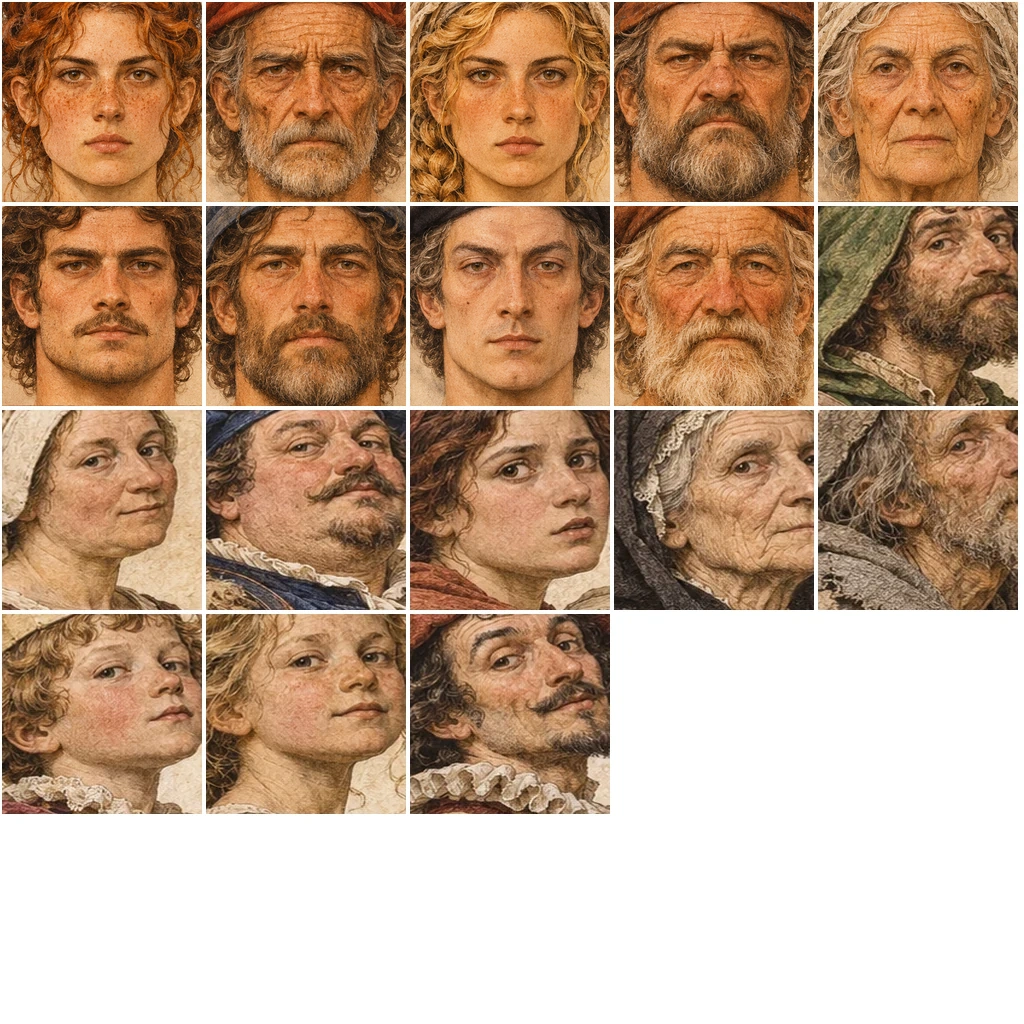
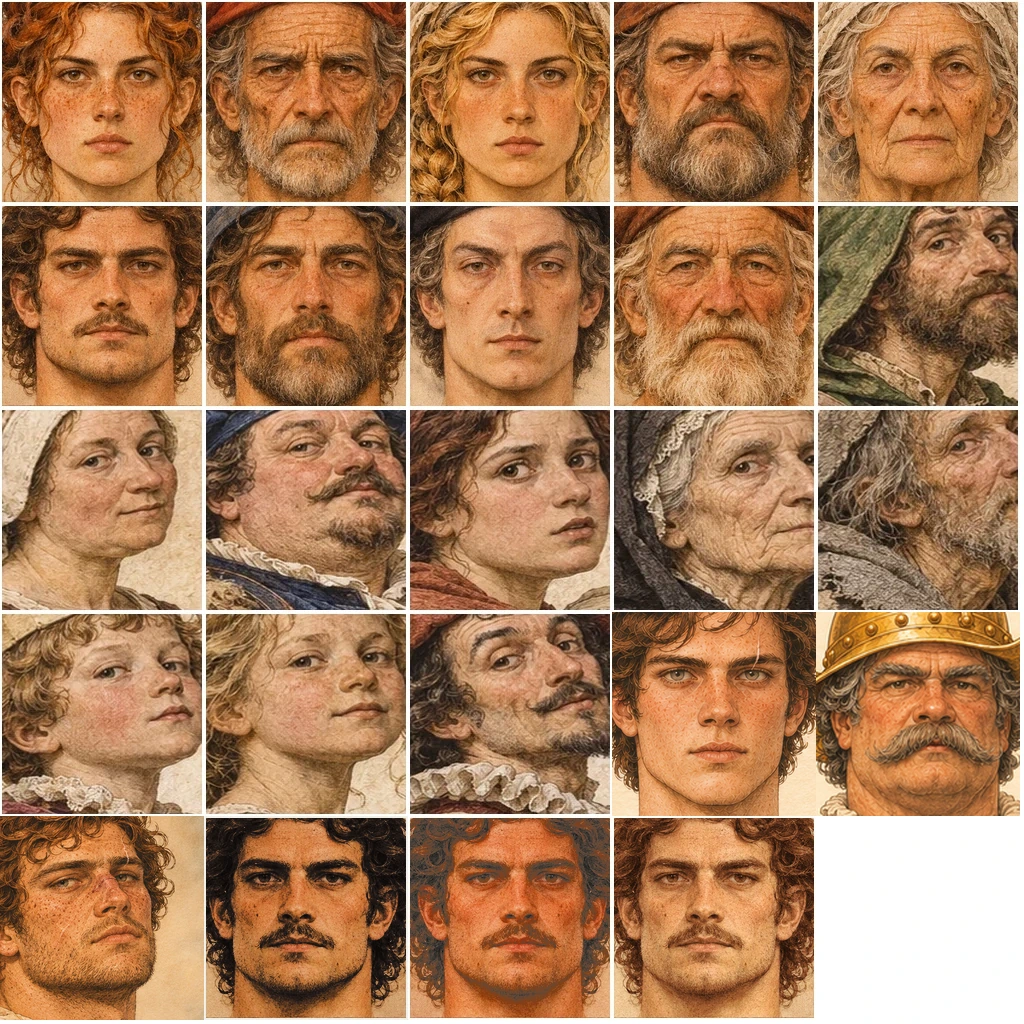
Foule et gardes variés, Bastien reconnaissable à la porte du palais
- Figurants : costume, coiffe, teint, cheveux, barbe, taille et corpulence tirés au sort (toujours les mêmes d'une partie à l'autre).
- Gardes : visages, teints et carrures différents ; Bastien a son propre visage et ses portraits de dialogue, le sergent aussi.
- Joris, le frère de Bastien, est dans la file du tribut.
- Après le tribut, le jeune garde suit Aliénor du regard et lui fait signe ; l'objectif et le bouton le désignent ; le percepteur ne capte plus toute la zone.
- File du tribut : la main serre la sangle au lieu d'un bras tendu ; les coiffes des figurantes laissent voir le visage.
- Outil : outils/atlas_visages.py complète l'atlas des visages.

Claude-Session: https://claude.ai/code/session_014bkfpPWQpatWsCS2ZrzQjJ

Changed region(s): [[0.0, 0.5938, 1.0, 1.0]]

diff --git a/index.html b/index.html
@@ -212,7 +212,7 @@ const OBJ = [
   "Racontez à maître Anselme ce qui vient de se passer. Il est devant l’imprimerie, à l’ouest de la place.",
   ""
 ];
-function objText(){ if(S.act===2) return act2Obj(); if(S.stage<6) return OBJ[S.stage]; if(!S.f.includes("F4")) return "Acte I terminé. Un feuillet se cache encore le long du quai. Maître Anselme vous attend pour la suite."; if(!S.f.includes("F5")) return "Acte I terminé. Un feuillet se cache au fond de la cour des gardes. Maître Anselme vous attend pour la suite."; return "Acte I terminé. Quand vous êtes prête, parlez à maître Anselme pour attendre le soir."; }
+function objText(){ if(S.act===2) return act2Obj(); if(S.stage===2&&typeof bastienWaits==="function"&&bastienWaits()) return OBJ[2]+" Le jeune garde, à gauche de la porte, voudrait vous parler (facultatif)."; if(S.stage<6) return OBJ[S.stage]; if(!S.f.includes("F4")) return "Acte I terminé. Un feuillet se cache encore le long du quai. Maître Anselme vous attend pour la suite."; if(!S.f.includes("F5")) return "Acte I terminé. Un feuillet se cache au fond de la cour des gardes. Maître Anselme vous attend pour la suite."; return "Acte I terminé. Quand vous êtes prête, parlez à maître Anselme pour attendre le soir."; }
 
 /* ================= État ================= */
 const KEY="sarlande-acte1-v1";
@@ -1247,10 +1247,10 @@ const SKIN=0xecc9a4, STEEL=0x97a0b4;
 const OUTLINE=new THREE.ShaderMaterial({uniforms:{w:{value:0.006}},vertexShader:"uniform float w; void main(){ vec3 p=position+normalize(normal)*w; gl_Position=projectionMatrix*modelViewMatrix*vec4(p,1.0); }",fragmentShader:"void main(){ gl_FragColor=vec4(0.10,0.09,0.12,1.0); }",side:THREE.BackSide});
 G.sleeveF=new THREE.CylinderGeometry(0.05,0.09,0.56,8);
 const HUMANS=[];
-const faceNames=["alienor","anselme","maelle","garin","ysabeau","garde","thibaut","percepteur","mathurin","bertin","jeanne","hugues","perrine","margot","mendiant","garcon","fille","comedien"];
+const faceNames=["alienor","anselme","maelle","garin","ysabeau","garde","thibaut","percepteur","mathurin","bertin","jeanne","hugues","perrine","margot","mendiant","garcon","fille","comedien","bastien","brisset","joris","garde2","garde3","garde4"];
 const skullLibrary=new Map();
 function portraitSkull(o){
-  const broad=["garin","garde","mathurin"].includes(o.likeness)?1.08:1;
+  const broad=["garin","garde","mathurin","brisset","garde2","garde3","garde4"].includes(o.likeness)?1.08:1;
   if(skullLibrary.has(broad))return skullLibrary.get(broad);
   const p=[],ix=[];
   for(let j=0;j<=22;j++){
@@ -1345,7 +1345,7 @@ function tailoring(){
   return {panel,detail,mesh};
 }
 function uniformTile(o){
-  const t={alienor:0,maelle:2,ysabeau:6,garde:3,anselme:8,garin:1,thibaut:7,percepteur:5,mathurin:6,bertin:6};
+  const t={alienor:0,maelle:2,ysabeau:6,garde:3,bastien:3,brisset:3,garde2:3,garde3:3,garde4:3,anselme:8,garin:1,thibaut:7,percepteur:5,mathurin:6,bertin:6};
   return t[o.likeness]===undefined?-1:t[o.likeness];
 }
 function tailoredBody(o){
@@ -1471,13 +1471,13 @@ function dressFigure(mesh,o){
 }
 function human(o){ const g=new THREE.Group(), body=new THREE.Group(); g.add(body); const b=new Builder(); b.jit=0.02; const hb=new Builder(); hb.jit=0.02; const U={body,legs:[],arms:[],ph:rnd()*6,amp:0,hold:!!o.hold};
   const H=(geo,col,x,y,z,sx,sy,sz,ry,rx,rz)=>hb.put(geo,col,x,y-1.5,z,sx,sy,sz,ry,rx,rz);
-  b.put(G.torso,o.top,0,1.2,0,0.215,0.52,0.155); b.put(G.s,o.top,0,1.44,0,0.26,0.085,0.15); b.put(G.c8,SKIN,0,1.5,0,0.05,0.1,0.05);
+  b.put(G.torso,o.top,0,1.2,0,0.215,0.52,0.155); b.put(G.s,o.top,0,1.44,0,0.26,0.085,0.15); b.put(G.c8,o.skin||SKIN,0,1.5,0,0.05,0.1,0.05);
   if(o.skirt){ b.put(G.skirt,o.bottom||o.top,0,0.52,0,1,1,1); if(o.apron) b.put(G.box,o.apron,0,0.6,0.295,0.3,0.74,0.025,0,-0.24,0); b.put(G.c8,0x4b3829,0,1.0,0,0.19,0.05,0.14); }
   else { b.put(G.flare,o.top,0,0.86,0,1,1,0.8); b.put(G.c8,0x4b3829,0,1.0,0,0.19,0.05,0.14); if(o.apron) b.put(G.box,o.apron,0,0.95,0.15,0.3,0.7,0.03,0,-0.06,0); }
   if(o.pouch) b.put(G.box,o.pouch,0.15,0.93,0.1,0.1,0.13,0.06);
   if(o.cape){ b.put(G.hcyl,o.cape,0,0.98,-0.01,0.28,1.04,0.21,Math.PI/2); b.put(G.s,o.cape,0,1.43,-0.02,0.27,0.08,0.17); b.put(G.c8,ORANGE,0,1.42,0.15,0.03,0.02,0.03,0,Math.PI/2); }
   /* le visage */
-  H(o.likeness?portraitSkull(o):G.s,SKIN,0,1.625,0.005,0.112,0.144,0.115); const cheekVertices=hb.p.length/3; H(G.box,SKIN,0,1.605,0.115,0.022,0.036,0.03);
+  H(o.likeness?portraitSkull(o):G.s,o.skin||SKIN,0,1.625,0.005,0.112,0.144,0.115); const cheekVertices=hb.p.length/3; H(G.box,o.skin||SKIN,0,1.605,0.115,0.022,0.036,0.03);
   const h=o.hat, hc=o.hatc||0x4b3829, hair=o.hair||0x5a4030, brow=(h==="bun"||h==="braid"||!h)?hair:0x4a3626;
   for(const sx of [-1,1]){ H(G.s,0x1d2440,sx*0.037,1.632,0.097,0.017,0.012,0.009); H(G.box,brow,sx*0.04,1.663,0.1,0.042,0.009,0.012,0,0,-sx*0.12); }
   H(G.box,0x8a3a2a,0,1.572,0.106,0.036,0.008,0.01);
@@ -1488,7 +1488,7 @@ function human(o){ const g=new THREE.Group(), body=new THREE.Group(); g.add(body
   if(o.beard) H(G.s,o.beard,0,1.535,0.019,0.086,0.058,0.069);
   if(h==="bun"){ H(G.s,hair,0,1.66,-0.03,0.115,0.115,0.12); H(G.s,hair,0,1.6,-0.14,0.058); b.put(G.box,0xf2ece0,0,1.455,0.02,0.3,0.05,0.2); }
   if(h==="braid"){ H(G.s,hair,0,1.66,-0.03,0.115,0.115,0.12); H(G.c8,hair,0,1.36,-0.14,0.035,0.42,0.035); }
-  if(h==="coif"){ H(G.s,0xf2ece0,0,1.66,-0.025,0.125,0.125,0.135); H(G.box,0xf2ece0,0,1.5,-0.1,0.2,0.2,0.04); b.put(G.s,o.shawl||0x8a8f7e,0,1.42,-0.02,0.29,0.1,0.19); }
+  if(h==="coif"){ if(o.likeness) H(G.s,0xf2ece0,0,1.66,-0.025,0.125,0.125,0.135); else H(G.s,0xf2ece0,0,1.672,-0.058,0.123,0.122,0.112); H(G.box,0xf2ece0,0,1.5,-0.1,0.2,0.2,0.04); b.put(G.s,o.shawl||0x8a8f7e,0,1.42,-0.02,0.29,0.1,0.19); }
   if(h==="beret"){
     H(G.s,0x9e907a,0,1.646,-.047,.109,.107,.108);
     if(o.likeness==="anselme"){
@@ -1615,6 +1615,31 @@ function animate(g,moving,dt,rate){ const U=g.userData; U.amp+=((moving?1:0)-U.a
   U.body.position.x=s*.014;
   U.body.position.y=(.5+.5*Math.cos(U.ph*2))*.026*U.amp; U.body.rotation.z=s*0.03; U.body.rotation.x=0.05*U.amp; if(U.gait) U.gait(dt,moving); if(U.sit){ if(U.legs.length){ U.legs[0].rotation.x=-1.5; U.legs[1].rotation.x=-1.5; } U.body.position.y=-0.44; U.body.rotation.x=0; } }
 function npc(o){ const g=human(o); const c=[o.x,o.z,0.55]; circles.push(c); g.userData.circle=c; return g; }
+/* ================= Figurants : chacun son costume, sa taille, son teint ================= */
+// Tirage déterministe : le même figurant garde la même allure d'une partie à l'autre.
+function seeded(i,k){ const x=Math.sin(i*127.1+k*311.7)*43758.5453; return x-Math.floor(x); }
+const FIG={ tops:[0xd9c79c,SAUGE,0xc9a070,0x9aa6b8,PETROLE,FORET,OCRE,SIENNE,0x8a6a48,0x7a5a3a,0x6b4a5a,0xb8604a,0xa39a7c,0x5d6f7e,0xe2d6bc,0x8f8a5a],
+  bottoms:[0xb9a47c,0x8c7a66,0x5d4a3a,0x6f7f6a,0x3f4a5f,0x9a6a4a,0x7a5f7a,0xa08a62],
+  legs:[SEPIA,0x7a5a3a,0x4a4038,0x5d6f7e,0x6b5340,0x8a7a62],
+  hatc:[SIENNE,FORET,SEPIA,PETROLE,0x6b4a5a,0x8a6a48,0x3f4a5f,OCRE,0x5a5550],
+  hair:[0x3a2a20,0x5a4030,0x6a3f28,0x8a5a34,0xb08a50,0x2a2420,0x9a9488,0xd8d2c4,0x7a3a22],
+  skin:[0xecc9a4,0xe8bf95,0xf0d2b2,0xdcae86,0xd09a72,0xe4b896,0xc98f66,0xf2d8bc],
+  aprons:[BLANC,0xe2d6bc,SIENNE,0x8a7a62,0xcdb98c,0x9aa6b8] };
+function crowdLook(i,o={}){ const r=k=>seeded(i,k), pick=(a,k)=>a[Math.floor(r(k)*a.length)%a.length];
+  const woman=o.skirt!==undefined?o.skirt:r(1)<0.45, old=r(2)<0.22;
+  const hat=woman?pick(["coif","coif","hood","wide",null,null],3):pick(["hood","cap","beret","wide",null,"cap","beret"],3);
+  const look={ noOutline:true, skirt:woman, top:pick(FIG.tops,4), bottom:pick(FIG.bottoms,5), legs:pick(FIG.legs,6),
+    hat:hat||undefined, hatc:pick(FIG.hatc,7), hair:old?pick([0x9a9488,0xd8d2c4,0xb5ab9c],8):pick(FIG.hair,8), skin:pick(FIG.skin,9) };
+  if(r(10)<0.45) look.sleeve=pick(FIG.tops,11);
+  if(r(12)<(woman?0.55:0.3)) look.apron=pick(FIG.aprons,13);
+  if(!woman&&r(14)<0.5) look.beard=old?pick([0xd8d2c4,0x9a9488],15):pick(FIG.hair,15);
+  if(r(16)<0.2) look.cape=pick(FIG.hatc,17);
+  if(woman&&hat==="coif") look.shawl=pick(FIG.tops,18);
+  if(r(19)<0.3) look.pouch=pick([SEPIA,0x6e5338,0x8a6a48],20);
+  return Object.assign(look,o); }
+// Taille et corpulence : on élargit le corps sans élargir la tête.
+function figureSize(g,i,base=1){ const r=k=>seeded(i,k); const s=base*(0.91+0.15*r(21)), w=0.9+0.28*r(22);
+  g.scale.setScalar(s); g.userData.body.scale.x=w; g.userData.head.scale.x=1/w; return g; }
 
 /* ================= Aliénor, modelée en volume ================= */
 // Toutes les pièces sont peintes depuis une seule planche : img/alienor-atlas.webp
@@ -2064,9 +2089,16 @@ function atelierActorProps(toolDown=0,inkSpread=0){
   }
 }
 const guardLook={likeness:"garde",top:0xcc3322,sleeve:0xcc3322,legs:0x9c2a1c,hat:"morion",hold:true};
+// Les gardes ne sont plus un seul homme copié : visages, teints et carrures varient.
+const GUARD_FACES=["garde3","garde4","garde2","garde","garde3","garde2","garde4"]; let guardSeq=0;
+function guardAs(face,o){ return Object.assign({},guardLook,{likeness:face},o); }
+function guardBuild(g,k){ g.userData.body.scale.x=[1,1.12,0.94,1.06][k%4]; g.userData.head.scale.x=1/g.userData.body.scale.x; return g; }
 const _red={}; function redcoat(g){ g.traverse(m=>{ if(m.isMesh&&m.material&&m.material.isMeshToonMaterial){ const k=m.material.uuid; if(!_red[k]){ _red[k]=m.material.clone(); _red[k].emissive=new THREE.Color(0x5a160c); } m.material=_red[k]; } }); return g; }
-redcoat(npc(Object.assign({x:-3.2,z:-15.4},guardLook))); redcoat(npc(Object.assign({x:3.2,z:-15.4},guardLook)));
-const file=[]; for(let i=0;i<9;i++){ const sk=i%3===1; file.push(human({noOutline:true,top:[0xd9c79c,SAUGE,0xc9a070,0x9aa6b8][i%4],bottom:[0xb9a47c,0x8c7a66][i%2],skirt:sk,legs:[SEPIA,0x7a5a3a][i%2],hat:sk?"coif":["hood","cap","beret"][i%3],hatc:[SIENNE,FORET,SEPIA][i%3],x:5.2+((i*37)%5)*0.08,z:16-i*3.1,ry:Math.PI,sack:true})); }
+const GATE_L=redcoat(npc(guardAs("bastien",{x:-3.2,z:-15.4}))), GATE_L2=guardBuild(redcoat(npc(guardAs("garde2",{x:-3.2,z:-15.4}))),1); GATE_L2.visible=false; guardBuild(redcoat(npc(guardAs("garde",{x:3.2,z:-15.4}))),3);
+const file=[]; for(let i=0;i<9;i++){ const at={x:5.2+((i*37)%5)*0.08,z:16-i*3.1,ry:Math.PI,sack:true};
+  // Le quatrième de la file est Joris, le frère de Bastien : « Mon frère est dans la file. »
+  const o=i===3?Object.assign({likeness:"joris",noOutline:true,top:0x7a5a3a,sleeve:0xd9c79c,legs:SEPIA,hair:0x8a5a34},at):crowdLook(40+i,at);
+  file.push(figureSize(human(o),40+i,i===3?1.04:1)); }
 const guards=[];
 const CONE_N=26, CONE_R=7.2, CONE_A=0.52;
 function rayHit(ox,oz,dx,dz,maxd){ let best=maxd;
@@ -2076,7 +2108,7 @@ function rayHit(ox,oz,dx,dz,maxd){ let best=maxd;
     if(ok&&t0<best) best=t0; }
   for(const c of circles){ if(c[3]===false) continue; const cx=c[0]-ox,cz=c[1]-oz, tc=cx*dx+cz*dz; if(tc<0||tc-c[2]>best) continue; const d2=cx*cx+cz*cz-tc*tc, r2=c[2]*c[2]; if(d2<r2){ const t=tc-Math.sqrt(r2-d2); if(t>0&&t<best) best=t; } }
   return best; }
-function guard(path,speed,opt){ const g=redcoat(human(Object.assign({x:path[0][0],z:path[0][1]},guardLook))); g.scale.setScalar(1.1);
+function guard(path,speed,opt){ const k=guardSeq++, g=guardBuild(redcoat(human(guardAs(GUARD_FACES[k%GUARD_FACES.length],{x:path[0][0],z:path[0][1]}))),k); g.scale.setScalar(1.04+0.04*(k%3));
   const geo=new THREE.BufferGeometry(); geo.setAttribute("position",new THREE.BufferAttribute(new Float32Array((CONE_N+2)*3),3)); const idx=[]; for(let i=0;i<CONE_N;i++) idx.push(0,i+1,i+2); geo.setIndex(idx);
   const cone=new THREE.Mesh(geo,new THREE.MeshBasicMaterial({color:0xff4630,transparent:true,opacity:0.6,depthWrite:false,side:THREE.DoubleSide,fog:false})); cone.frustumCulled=false; scene.add(cone);
   const o=Object.assign({g,cone,path,i:path.length>1?1:0,dir:1,speed:speed||2,wait:0,base:0,k:1},opt||{}); guards.push(o); return o; }
@@ -2138,7 +2170,7 @@ function portraitForLine(line){
   if(!Array.isArray(line)||!line[0]) return "";
   const fold=t=>t.normalize("NFD").replace(/[\u0300-\u036f]/g,"").toLowerCase();
   const speaker=fold(line[0]), words=fold(line[1]||"");
-  const aliases=[["bastien","garde"],["sergent","garde"],["petite fille","fille"],["petit garcon","garcon"],["enfants","garcon"]];
+  const aliases=[["bastien","bastien"],["jeune garde","bastien"],["sergent","brisset"],["petite fille","fille"],["petit garcon","garcon"],["enfants","garcon"]];
   const alias=aliases.find(([key])=>speaker.includes(key));
   const id=alias?alias[1]:faceNames.find(n=>speaker.includes(n));
   if(!id)return "";
@@ -2428,16 +2460,16 @@ const INTER=[
    talk([[MA,v],[MA,"« Ils ont pris la boulangerie de mon père le mois dernier, pour un tribut en retard. Ils n’ont pas trouvé ceci. »"],{feu:"F2"},
      branch([["« Pourquoi me la donner à moi ? »",[[MA,"« Parce que tu sais lire. Et parce que seule, je n’en fais rien. »"]]],["« Ton père sait que tu l’as prise ? »",[[MA,"« Il la relisait chaque soir. Depuis qu’ils sont venus, il ne lit plus rien. »"]]]],
        [[MA,"« Il y en a une autre dans la chapelle du vieux cloître, à l’est, derrière la cour des gardes. La poterne est ouverte le matin. »"],[MA,"« Reste hors du rouge et passe derrière les caisses. S’ils te voient, ils te jettent dehors. »"]],()=>setStage(3))]); }},
- {p:()=>N.percepteur.position,r:3.4,label:"Parler au percepteur",act(){ if(S.act===2) return A2.percepteur();
+ {p:()=>N.percepteur.position,get r(){ return S.act===1&&S.stage===1?3.4:2.4; },label:"Parler au percepteur",act(){ if(S.act===2) return A2.percepteur();
    if(S.stage!==1) return talk([[PE,vary("pe",["« Suivant. »","« L’Un te regarde, dit-on. Moi, je te pèse. C’est plus sûr. »","« Je ne prends rien, moi. Je compte. Ceux qui prennent sont plus haut. »"])]]);
-   const B1={paye:"Le garde de gauche regarde ses pieds, comme on le lui a appris.",denonce:"Le garde de gauche lève les yeux sur vous. Puis il les détourne, comme on détourne les yeux d’une flaque.",refus:"Le garde de gauche ne regarde plus ses pieds. Il vous regarde."};
+   const B1={paye:"Le jeune garde, à gauche de la porte, regarde ses pieds, comme on le lui a appris.",denonce:"Le jeune garde, à gauche de la porte, lève les yeux sur vous. Puis il les détourne, comme on détourne les yeux d’une flaque. Il a quelque chose à vous dire.",refus:"Le jeune garde, à gauche de la porte, ne regarde plus ses pieds. Il vous regarde, comme s’il voulait vous parler."};
    const done=(flag,lines)=>()=>{ S.flags.tribut=flag; const b=bstate(); if(flag!=="paye") b.vu=true; if(flag==="denonce") b.conf=-1; talk(lines.concat([["",B1[flag]],["","Près de son étal, Maëlle vous fait signe."]]),()=>setStage(2)); };
    talk([[PE,"« Suivant. Atelier d’Anselme, imprimeur. Voyons ce sac. »"],[PE,"« Il manque une mesure. »"],{choices:[
      ["Payer la mesure de votre poche",done("paye",[[PE,"« Bien. Tu vois, quand on veut. Suivant. »"],["","Vous videz votre bourse. Il ne vous regarde déjà plus."]])],
      ["Dire que le sac de Garin, le tanneur, était bien plus léger",done("denonce",[[PE,"« Garin ? Tiens donc. Gardes, qu’on me ramène le tanneur. »"],[PE,"« Tu iras loin, petite. Le palais a toujours besoin de gens qui regardent le sac des autres. »"],["","Il raye votre dette. Vous venez de payer avec le nom d’un autre."]])],
      ["Demander à quoi sert le tribut",done("refus",[[PE,"« À nourrir les gardes. »"],[AL,"« Et les gardes ? »"],[PE,"« À veiller à ce que tu paies. Ton nom ? … Aliénor. Je l’écris en grand. »"],["","Les gardes vous suivent des yeux. Vous n’êtes plus un sac parmi les autres."]])]
    ]}]); }},
- {p:()=>({x:-3.2,z:-15.4}),r:2.1,label:"Parler au garde",act(){ if(S.act===2) return A2.garde(); bastienPorte(); }},
+ {p:()=>({x:-3.1,z:-14.5}),r:2.7,get label(){ return S.act===1&&GATE_L.visible?(bstate().nom?"Parler à Bastien":"Parler au jeune garde"):"Parler au garde"; },act(){ if(S.act===2) return A2.garde(); bastienPorte(); }},
  {p:()=>N.garin.position,label:"Parler à Garin",act(){ if(S.act===2) return A2.garin();
    if(S.stage>4) return talk([[GA,vary("ga5",["« Mon sac est toujours par terre. J’attends de voir qui posera le sien. »","« Ma femme dit que je suis fou. Elle a peut-être raison. Mais je dors mieux. »"])]]);
    if(S.stage<4){ if(S.flags.tribut==="denonce") return talk([[GA,vary("gad",["« On m’a fait repasser devant la balance. Quelqu’un a parlé. Si je savais qui… »","« Double mesure. Trente ans de tribut, et on me soupçonne. »"])]]);
@@ -2488,7 +2520,8 @@ function relYaw(g,x,z){ let a=Math.atan2(x-g.position.x,z-g.position.z)-g.rotati
 function charTick(dt){ const P=player.position, cine=mode==="farce"||mode==="cine2"||mode==="title"||mode==="plate";
   for(const g of HUMANS){ if(!g.visible||g.parent!==scene) continue; const U=g.userData; if(!U.head) continue; let a=0;
     if(g.rotation.z===0&&!cine){ if(g===player){ if(partner&&mode==="dialog") a=relYaw(g,partner.position.x,partner.position.z); }
-      else { const d=Math.hypot(g.position.x-P.x,g.position.z-P.z); if(d<5.5) a=relYaw(g,P.x,P.z); } }
+      else { const d=Math.hypot(g.position.x-P.x,g.position.z-P.z), waits=g===GATE_L&&bastienWaits()&&mode==="play"; if(d<(waits?16:5.5)) a=relYaw(g,P.x,P.z);
+        if(g===GATE_L){ if(waits&&d<9){ const w=Math.max(0,Math.sin(time*1.6)); U.arms[0].rotation.x=-0.35-0.55*w; U.arms[0].rotation.z=-0.125-0.25*w; U.waved=true; } else if(U.waved){ U.arms[0].rotation.x=0; U.arms[0].rotation.z=-0.125; U.waved=false; } } } }
     a=Math.max(-1.0,Math.min(1.0,a)); U.head.rotation.y+=(a-U.head.rotation.y)*Math.min(1,dt*4); U.head.rotation.x*=0.9;
     U.body.scale.y=1+Math.sin(time*1.8+U.ph)*0.007;
     if(U.elbows.length&&U.amp<.15){
@@ -2640,7 +2673,7 @@ function tick(){ requestAnimationFrame(tick); const elapsed=clock.getDelta(), dt
     const advance=inOpening?Math.min(elapsed,.16):dt;
     if(lineMoves){p.position.z-=advance*.6;if(p.position.z<-11.5)p.position.z=16.4;}
     animate(p,lineMoves,advance,3.2);
-    p.userData.arms[1].rotation.x=-2.05+(lineMoves?.08*Math.sin(2*p.userData.ph):0);
+    p.userData.arms[1].rotation.x=-1.05+(lineMoves?.06*Math.sin(2*p.userData.ph):0); p.userData.arms[1].rotation.z=-.62;
     p.userData.body.rotation.z=-.073;p.userData.head.rotation.z=.046;
   }
   marker.rotation.y=time*2; alive(dt,time); feteTick(dt,time); if(mode==="cine2"){ cine2T+=dt; if(cine2T>7.6) endCine2(); }
@@ -2938,8 +2971,8 @@ function buildFete(){ if(fete) return; fete={grp:new THREE.Group(),circ:[],boxes
     d.put(G.box,WOOD,-6.8,0.22,-9.6,2.6,0.08,0.42,0.3,0,1.2); for(let i=0;i<8;i++) d.put(G.box,BLANC,-9+((i*13)%17),0.03,2+((i*7)%9),0.25,0.02,0.2,i);
     const m=d.mesh(); scene.add(m); fete.dawnOnly.push(m);
     fete.poster=new THREE.Mesh(G.box,LM(0xfff6dc)); fete.poster.scale.set(0.62,0.85,0.02); fete.poster.position.set(0,1.75,3.5); fete.poster.rotation.y=0; scene.add(fete.poster);
-    const s1=lowShadow(human({top:0xc9a070,legs:SEPIA,hat:"hood",hatc:SIENNE})); s1.position.set(3.4,0.32,7.2); s1.rotation.set(0,0.6,1.5); fete.dawnOnly.push(s1);
-    const s2=lowShadow(human({top:SAUGE,legs:SEPIA,hat:"cap",hatc:SEPIA})); s2.position.set(-6.8,0.3,0.8); s2.rotation.set(0,-0.9,-1.5); fete.dawnOnly.push(s2); }
+    const s1=lowShadow(human(crowdLook(130,{skirt:false}))); s1.position.set(3.4,0.32,7.2); s1.rotation.set(0,0.6,1.5); fete.dawnOnly.push(s1);
+    const s2=lowShadow(human(crowdLook(131,{skirt:false}))); s2.position.set(-6.8,0.3,0.8); s2.rotation.set(0,-0.9,-1.5); fete.dawnOnly.push(s2); }
   /* roue de la loterie */
   fete.wheel=new THREE.Group(); { const dd=new THREE.Mesh(G.c16,LM(BLANC)); dd.scale.set(1.45,0.1,1.45); dd.rotation.x=Math.PI/2; fete.wheel.add(dd); for(let i=0;i<8;i++){ const w=new THREE.Mesh(G.box,LM([SIENNE,OCRE,PETROLE,INDIGO][i%4])); w.scale.set(0.5,1.25,0.04); w.position.set(Math.sin(i*Math.PI/4)*0.7,Math.cos(i*Math.PI/4)*0.7,0.07); w.rotation.z=-i*Math.PI/4; fete.wheel.add(w); } } fete.wheel.position.set(13.5,3.1,-1.9); fete.grp.add(fete.wheel);
   /* guirlandes de lanternes et lumières */
@@ -2967,7 +3000,7 @@ const centers=[],corners=[],cords=[];
   /* la foule */
   const cols=[0xd9c79c,SAUGE,0xc9a070,0x9aa6b8,OCRE,PETROLE,SIENNE,0xe2d6bc];
   const spots=[[-3.6,-2.7,3.14],[-1.6,-3.3,3.14],[0.4,-2.6,3.14],[3.8,-2.9,3.14],[5.2,-3.6,-2.6],[-5.9,-4.1,2.5],[6.2,-4.9,-2.5],[-15.4,3.3,2.4],[-12.0,3.4,-2.6],[-16.4,-1.3,1.3],[15.4,-0.1,-2.2],[10.2,-0.6,2.2],[15.7,-3.3,-1.4],[-12.6,-10.4,3.14],[-9.4,-10.3,3.14],[-0.6,-1.2,3.14]];
-  spots.forEach((q,i)=>{ const sk=i%3===0; const g=lowShadow(human({noOutline:true,top:cols[i%8],bottom:cols[(i+3)%8],skirt:sk,legs:SEPIA,hat:sk?(i%2?"coif":"braid"):["hood","cap","beret"][i%3],hatc:cols[(i+5)%8],hair:0x6a3f28,x:q[0],z:q[1],ry:q[2]})); g.userData.cheer=i%2===0; g.userData.base=q[2]; bindCrowdFigure(g); fete.crowd.push(g); fete.nightOnly.push(g); nightCircle(q[0],q[1],0.42); });
+  spots.forEach((q,i)=>{ const g=figureSize(lowShadow(human(crowdLook(100+i,{x:q[0],z:q[1],ry:q[2]}))),100+i); g.userData.cheer=i%2===0; g.userData.base=q[2]; bindCrowdFigure(g); fete.crowd.push(g); fete.nightOnly.push(g); nightCircle(q[0],q[1],0.42); });
   /* les comédiens */
   fete.com1=lowShadow(human({top:0x8a6a48,apron:SIENNE,legs:SEPIA,hat:"cap",hatc:SEPIA})); fete.sack=new THREE.Mesh(G.s,LM(0xb9a27c)); fete.sack.scale.set(0.22,0.28,0.19); fete.sack.position.set(0,1.18,-0.22); fete.com1.userData.body.add(fete.sack);
   fete.com2=lowShadow(human({top:0xcc3322,legs:0x9c2a1c,hat:"morion",hold:true})); for(const c of [fete.com1,fete.com2]){ c.position.y=1.0; fete.nightOnly.push(c); }
@@ -2981,7 +3014,7 @@ const centers=[],corners=[],cords=[];
   /* tas de pièces au sol */
   PILES.forEach(p=>{ const b=new Builder(); b.jit=0.02; for(let k=0;k<7;k++) b.put(G.c16,0xf2c24a,p[0]+Math.cos(k*2.4)*0.18*(k%3),0.03+k*0.004,p[1]+Math.sin(k*2.4)*0.16*(k%3),0.08,0.02,0.08,0,0.2*(k%2),0); const m=b.mesh(); m.material=new THREE.MeshBasicMaterial({vertexColors:true}); scene.add(m); fete.piles.push(m); });
   /* garde des mendiants */
-  fete.mGuard=redcoat(lowShadow(human(Object.assign({x:-17.8,z:15.2,ry:-1.1},guardLook)))); fete.nightOnly.push(fete.mGuard); nightCircle(-17.8,15.2,0.5);
+  fete.mGuard=guardBuild(redcoat(lowShadow(human(guardAs("garde4",{x:-17.8,z:15.2,ry:-1.1})))),2); fete.nightOnly.push(fete.mGuard); nightCircle(-17.8,15.2,0.5);
   /* lavis dorés : les zones qui happent */
   const disc=r=>{ const m=new THREE.Mesh(new THREE.CircleGeometry(r,36),new THREE.MeshBasicMaterial({color:0xffb52e,transparent:true,opacity:0.3,depthWrite:false,fog:false})); m.rotation.x=-Math.PI/2; m.position.y=0.045; const ring=new THREE.Mesh(new THREE.RingGeometry(r-0.14,r,56),new THREE.MeshBasicMaterial({color:0xffd866,transparent:true,opacity:0.9,depthWrite:false,fog:false,side:THREE.DoubleSide})); ring.position.z=0.01; m.add(ring); scene.add(m); return m; };
   fete.zones=[{x:0,z:-7.6,r:6,m:disc(6)},{x:-14,z:0.6,r:4.2,m:disc(4.2)},{x:13.5,z:-2,r:4.0,m:disc(4.0)},{x:0,z:0,r:3.8,m:disc(3.8),jong:true},{x:0,z:0,r:3.5,m:disc(3.5),valet:true}];
@@ -3223,22 +3256,25 @@ INTER.push({p:()=>({x:0,z:6.1}),r:2.4,label:"Coller l’affiche",can:()=>S.act==
 const BAS="Bastien, garde de la porte";
 function bstate(){ if(!S.bastien) S.bastien={vu:false,nom:false,conf:0,expo:0,refus:false,danse:false,lit:false,b2:false,b3:false,b4:false,b6:false}; return S.bastien; }
 function mstate(){ if(!S.mahaut) S.mahaut={billet:false,question:false}; return S.mahaut; }
-function bsp(){ return bstate().nom?BAS:GD; }
+function bsp(){ return bstate().nom?BAS:"Le jeune garde"; }
 function bz(dc,de){ const b=bstate(); b.conf=Math.max(-1,Math.min(5,b.conf+dc)); b.expo=Math.max(0,Math.min(5,b.expo+de)); save(); }
-const BAS_ARM=redcoat(npc(Object.assign({x:24.5,z:1.2,ry:-Math.PI/2},guardLook)));
-const BAS_OFF=redcoat(npc({likeness:"garde",top:0xcc3322,sleeve:0xcc3322,legs:0x9c2a1c,hat:"cap",hatc:0x5b2b20,x:-7.4,z:-1.6,ry:Math.PI/2}));
+const BAS_ARM=redcoat(npc(guardAs("bastien",{x:24.5,z:1.2,ry:-Math.PI/2})));
+const BAS_OFF=redcoat(npc({likeness:"bastien",top:0xcc3322,sleeve:0xcc3322,legs:0x9c2a1c,hat:"cap",hatc:0x5b2b20,x:-7.4,z:-1.6,ry:Math.PI/2}));
 const MAHAUT=npc({top:0x6b4a32,bottom:0x5a3f2b,skirt:true,hat:"hood",hatc:0x4e3a2a,cape:0x4e3a2a,x:-6.6,z:10.4,ry:2.6});
 const GERVAIS=npc({top:0x7a7466,legs:SEPIA,hat:"cap",hatc:0x4b3829,beard:0xd8d2c4,x:-7.4,z:10.9,ry:2.5});
 { const m=new THREE.Mesh(G.box,LM(BLANC)); m.scale.set(0.2,0.085,0.04); m.position.set(0,0.135,0.112); MAHAUT.userData.head.add(m);
   for(const sx of [-1,1]){ const e=new THREE.Mesh(G.box,LM(NUIT)); e.scale.set(0.042,0.022,0.01); e.position.set(sx*0.04,0.14,0.134); MAHAUT.userData.head.add(e); } }
 for(const g of [BAS_ARM,BAS_OFF,MAHAUT,GERVAIS]){ g.visible=false; g.userData.circle[3]=false; }
+function bastienWaits(){ const b=bstate(), t=S.flags.tribut; return S.act===1&&S.stage>=2&&S.stage<4&&!b.b2&&!b.refus&&(t==="refus"||t==="denonce"); }
 function placeExtras(){ const b=bstate(), m=mstate(), show=(g,v)=>{ g.visible=v; g.userData.circle[3]=v; };
   const sit=S.act===1&&S.stage===4&&!b.b3&&!b.refus, morn=S.act===2&&dawn&&S.stage>=16&&b.vu&&!b.refus;
   if(sit){ BAS_ARM.position.set(24.5,0,1.2); BAS_ARM.rotation.y=-Math.PI/2; } else if(morn){ BAS_ARM.position.set(-2.6,0,7.9); BAS_ARM.rotation.y=2.17; }
   const U=BAS_ARM.userData; U.sit=sit; U.body.position.y=sit?-0.44:0; U.legs.forEach(l=>{ l.rotation.x=sit?-1.5:0; });
   U.circle[0]=BAS_ARM.position.x; U.circle[1]=BAS_ARM.position.z; show(BAS_ARM,sit||morn);
   show(BAS_OFF,S.act===2&&night&&S.stage>=11&&S.stage<=12&&b.vu&&!b.refus);
-  const mv=S.act===2&&night&&S.stage>=11&&S.stage<=13&&!m.billet; show(MAHAUT,mv); show(GERVAIS,mv); }
+  const mv=S.act===2&&night&&S.stage>=11&&S.stage<=13&&!m.billet; show(MAHAUT,mv); show(GERVAIS,mv);
+  // Quand Bastien est ailleurs (poterne, fête, fontaine), un autre garde tient la porte à sa place.
+  const away=BAS_ARM.visible||BAS_OFF.visible; GATE_L.visible=!away; GATE_L2.visible=away; }
 // B-2 · à la porte du palais
 function bastienPorte(){ const b=bstate(), t=S.flags.tribut, atPoterne=S.act===1&&S.stage===4&&!b.b3&&!b.refus;
   const base=()=>talk([[atPoterne?GD:bsp(),vary("gd",["« Circule. On ne regarde pas la porte. On regarde ses pieds. »","« Moi aussi, je paie le tribut. On me le retient sur la solde. »","« Mon frère est dans la file. Je fais semblant de ne pas le voir. Lui aussi. »"])]]);

diff --git a/outils/atlas_visages.py b/outils/atlas_visages.py
@@ -1,0 +1,95 @@
+"""Complète l'atlas des visages 3D (img/visages-modeles.webp) et les portraits de dialogue.
+
+Usage : python3 outils/atlas_visages.py   (depuis la racine du projet)
+
+L'atlas est une grille de 5 × 5 cases de 204 px. Les cases 0 à 17 existent déjà.
+Ce script remplit les cases 18 à 23, dans l'ordre de `faceNames` dans index.html :
+  18 bastien  · 19 brisset · 20 joris · 21 garde2 · 22 garde3 · 23 garde4
+Le cadrage reprend celui des cases existantes : les yeux à 62 px du haut,
+le menton à 179 px, le nez au milieu.
+Les trois gardes de rang sont tirés du visage du garde (case 5), retourné
+et recoloré (cheveux, moustache, teint), pour que la garde ne soit plus
+un seul homme copié dix fois.
+"""
+from PIL import Image, ImageOps
+import colorsys
+
+T = 204
+REF = "references/planches-3d/"
+ATLAS = "img/visages-modeles.webp"
+
+
+def tile_pos(i):
+    return (i % 5) * T, (i // 5) * T
+
+
+def crop_face(path, box):
+    return Image.open(path).convert("RGB").crop(box).resize((T, T), Image.LANCZOS)
+
+
+def recolor(tile, hair, skin, flip=False, dark=105):
+    """Teint en douceur les poils (cheveux, sourcils, moustache) et décale le teint.
+
+    Le poids de la teinte monte progressivement quand le pixel s'assombrit,
+    pour éviter les taches : la valeur d'origine est gardée, seule la couleur change.
+    """
+    im = ImageOps.mirror(tile) if flip else tile.copy()
+    px = im.load()
+    hl = 0.3 * hair[0] + 0.59 * hair[1] + 0.11 * hair[2]
+    for y in range(T):
+        for x in range(T):
+            r, g, b = px[x, y]
+            lum = 0.3 * r + 0.59 * g + 0.11 * b
+            w = min(1.0, max(0.0, (dark + 25 - lum) / 60))
+            # le teint
+            h, s, v = colorsys.rgb_to_hsv(r / 255, g / 255, b / 255)
+            h = (h + skin[0]) % 1
+            s = min(1, max(0, s * skin[1]))
+            v = min(1, max(0, v * skin[2]))
+            sr, sg, sb = (c * 255 for c in colorsys.hsv_to_rgb(h, s, v))
+            # les poils : même valeur relative, autre couleur
+            k = min(1.6, lum / 70)
+            tr, tg, tb = (min(255, c * k) for c in hair) if hl else (lum, lum, lum)
+            px[x, y] = (int(sr * (1 - w) + tr * w), int(sg * (1 - w) + tg * w), int(sb * (1 - w) + tb * w))
+    return im
+
+
+def build_atlas():
+    atlas = Image.open(ATLAS).convert("RGB")
+    garde = atlas.crop((*tile_pos(5), tile_pos(5)[0] + T, tile_pos(5)[1] + T))
+    tiles = {
+        18: crop_face(REF + "bastien_tete.png", (72, 347, 354, 629)),
+        19: crop_face(REF + "brisset_tete.png", (167, 432, 321, 586)),
+        20: crop_face(REF + "joris_neutre.png", (418, 63, 756, 401)),
+        # garde2 : brun très foncé, teint mat, retourné
+        21: recolor(garde, (40, 30, 26), (0.0, 1.08, 0.95), flip=True),
+        # garde3 : grisonnant, teint rougeaud
+        22: recolor(garde, (132, 124, 114), (-0.01, 1.12, 1.0), dark=62),
+        # garde4 : roux clair, teint pâle, retourné
+        23: recolor(garde, (120, 64, 34), (0.006, 0.9, 1.04), flip=True),
+    }
+    for i, im in tiles.items():
+        atlas.paste(im, tile_pos(i))
+    atlas.save(ATLAS, "WEBP", quality=92, method=6)
+
+
+def save_portrait(im, name):
+    im.convert("RGB").resize((512, 512), Image.LANCZOS).save(
+        f"img/portraits/{name}.webp", "WEBP", quality=88, method=6)
+
+
+def build_portraits():
+    for e in ("neutre", "sourire", "inquietude", "colere"):
+        save_portrait(Image.open(REF + f"bastien_{e}.png"), f"bastien_{e}")
+    # La feuille du sergent est une grille 2 × 2 : neutre, sourire / inquiétude, colère.
+    sheet = Image.open(REF + "brisset_expressions.png").convert("RGB")
+    for (qx, qy), e in zip([(0, 0), (1, 0), (0, 1), (1, 1)],
+                           ("neutre", "sourire", "inquietude", "colere")):
+        x0, y0 = qx * 768 - (52 if qx else 0), qy * 512
+        save_portrait(sheet.crop((x0 + 205, y0 + 10, x0 + 695, y0 + 500)), f"brisset_{e}")
+
+
+if __name__ == "__main__":
+    build_atlas()
+    build_portraits()
+    print("atlas et portraits écrits")
